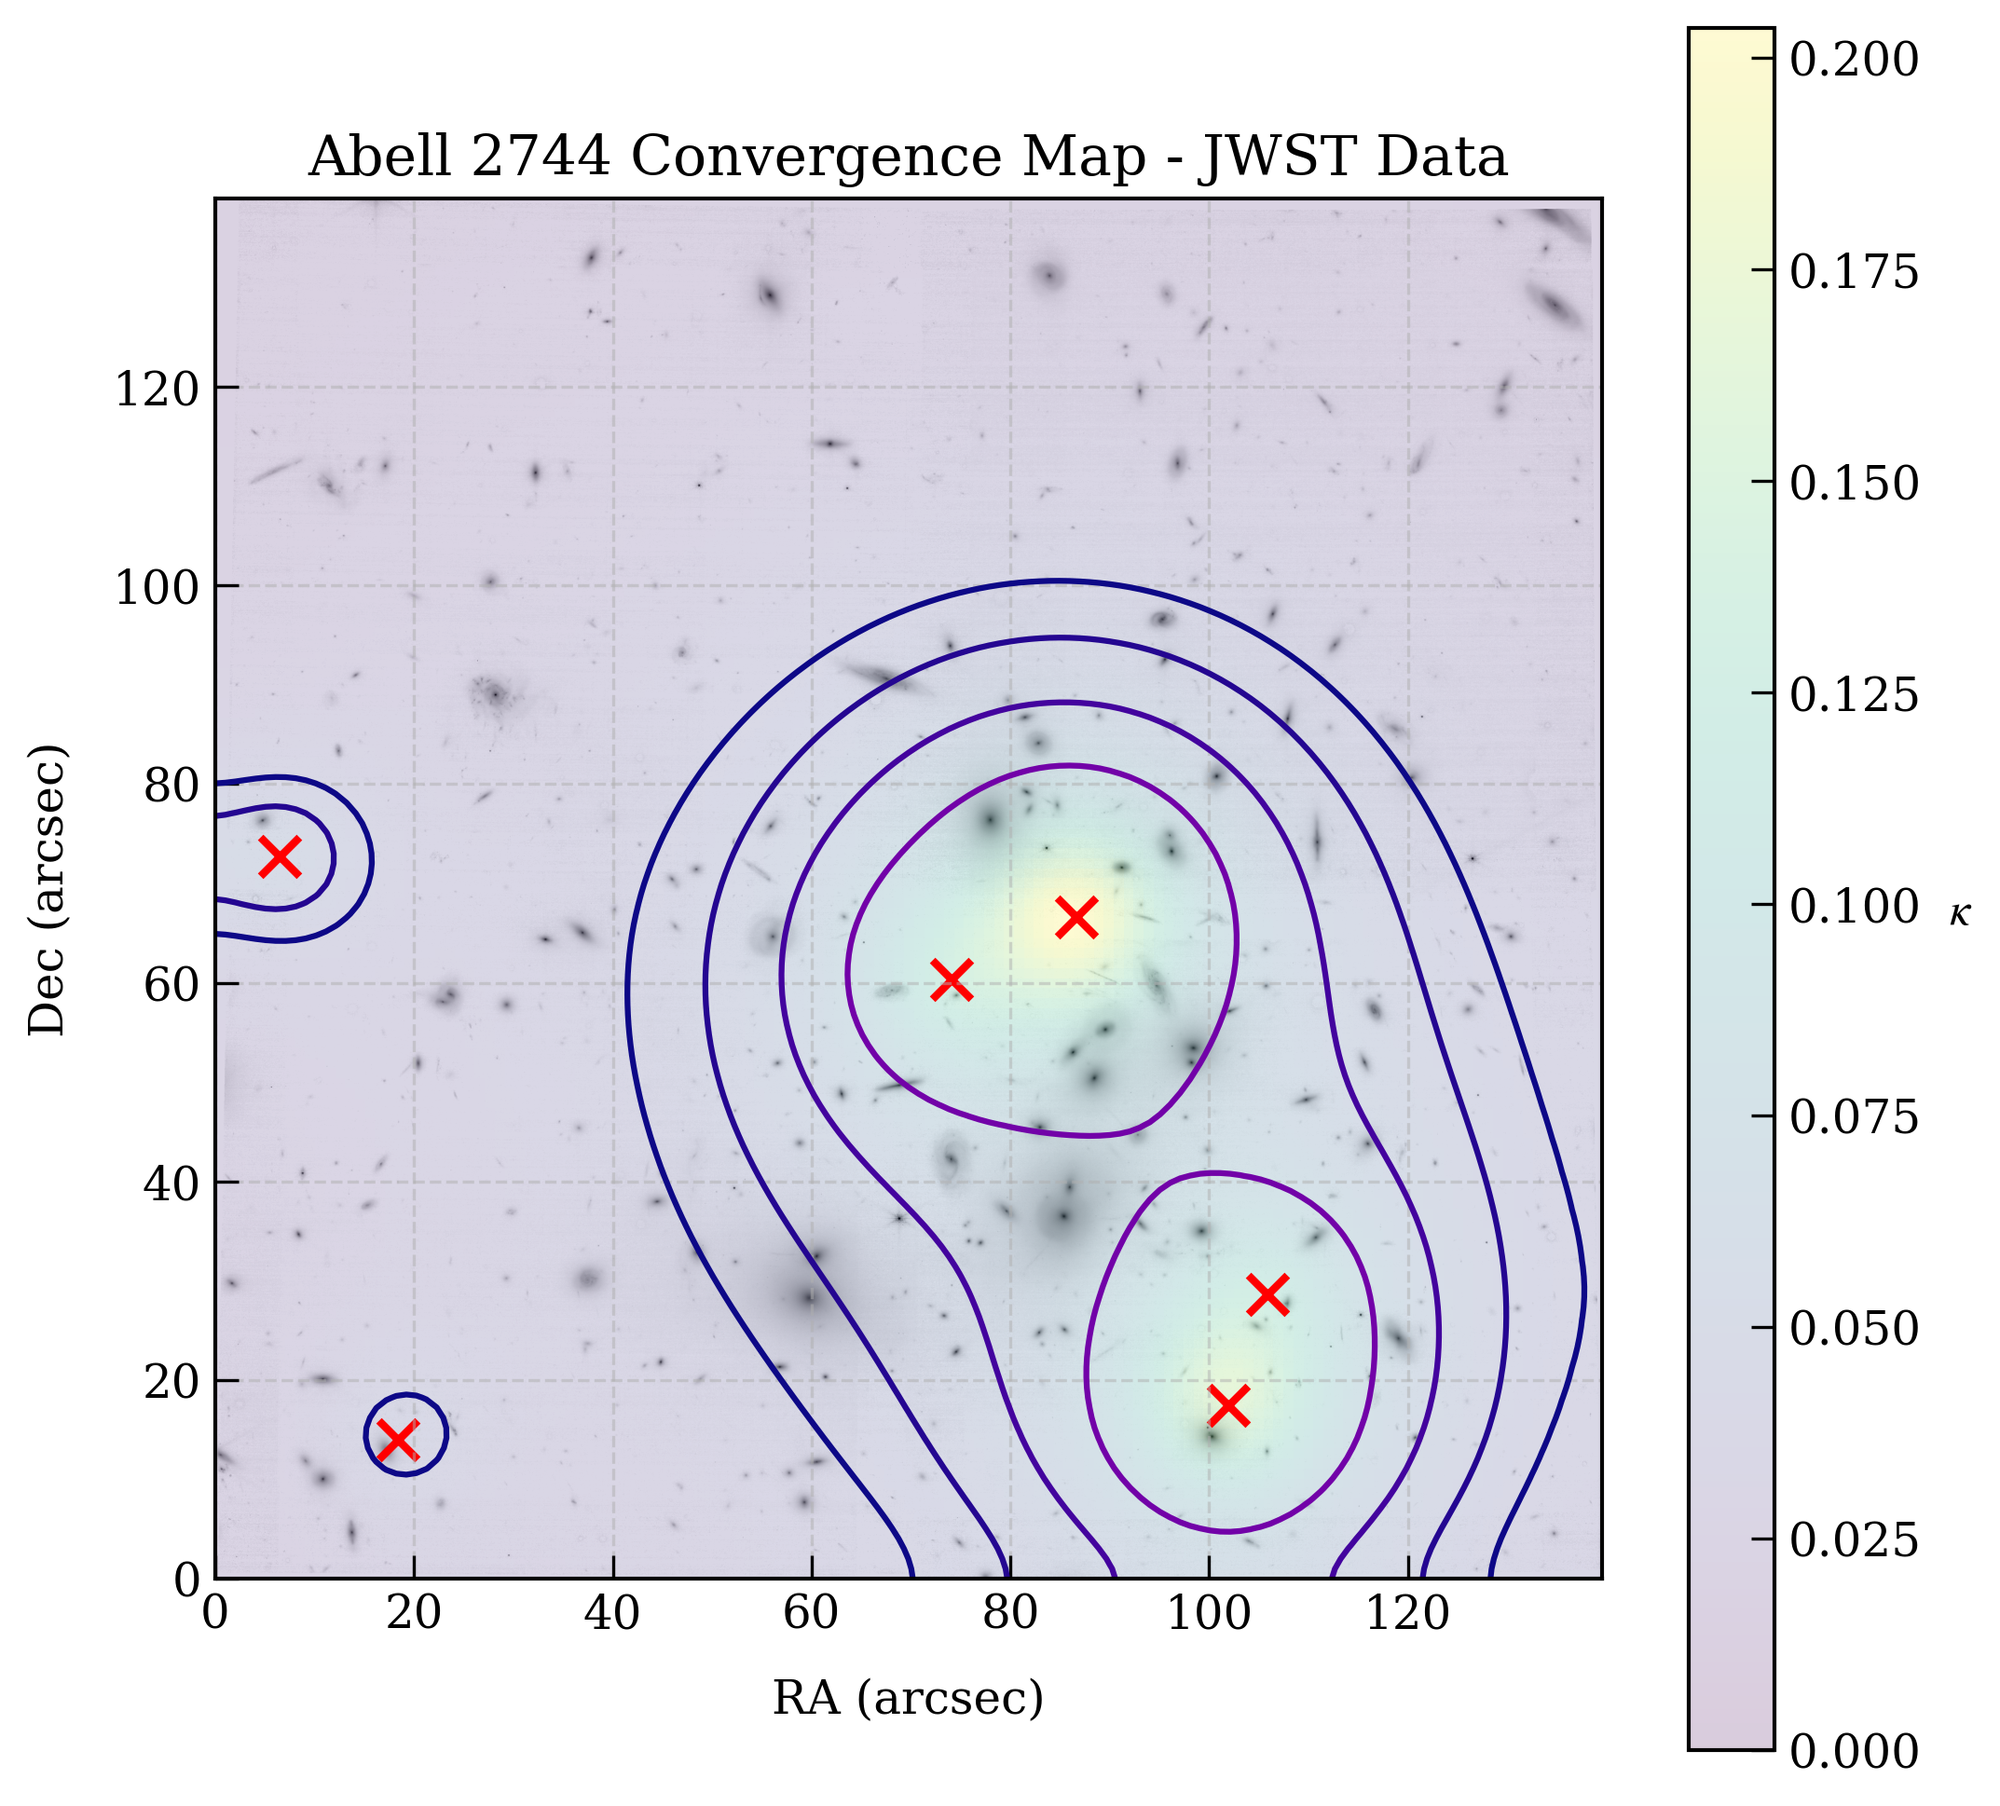
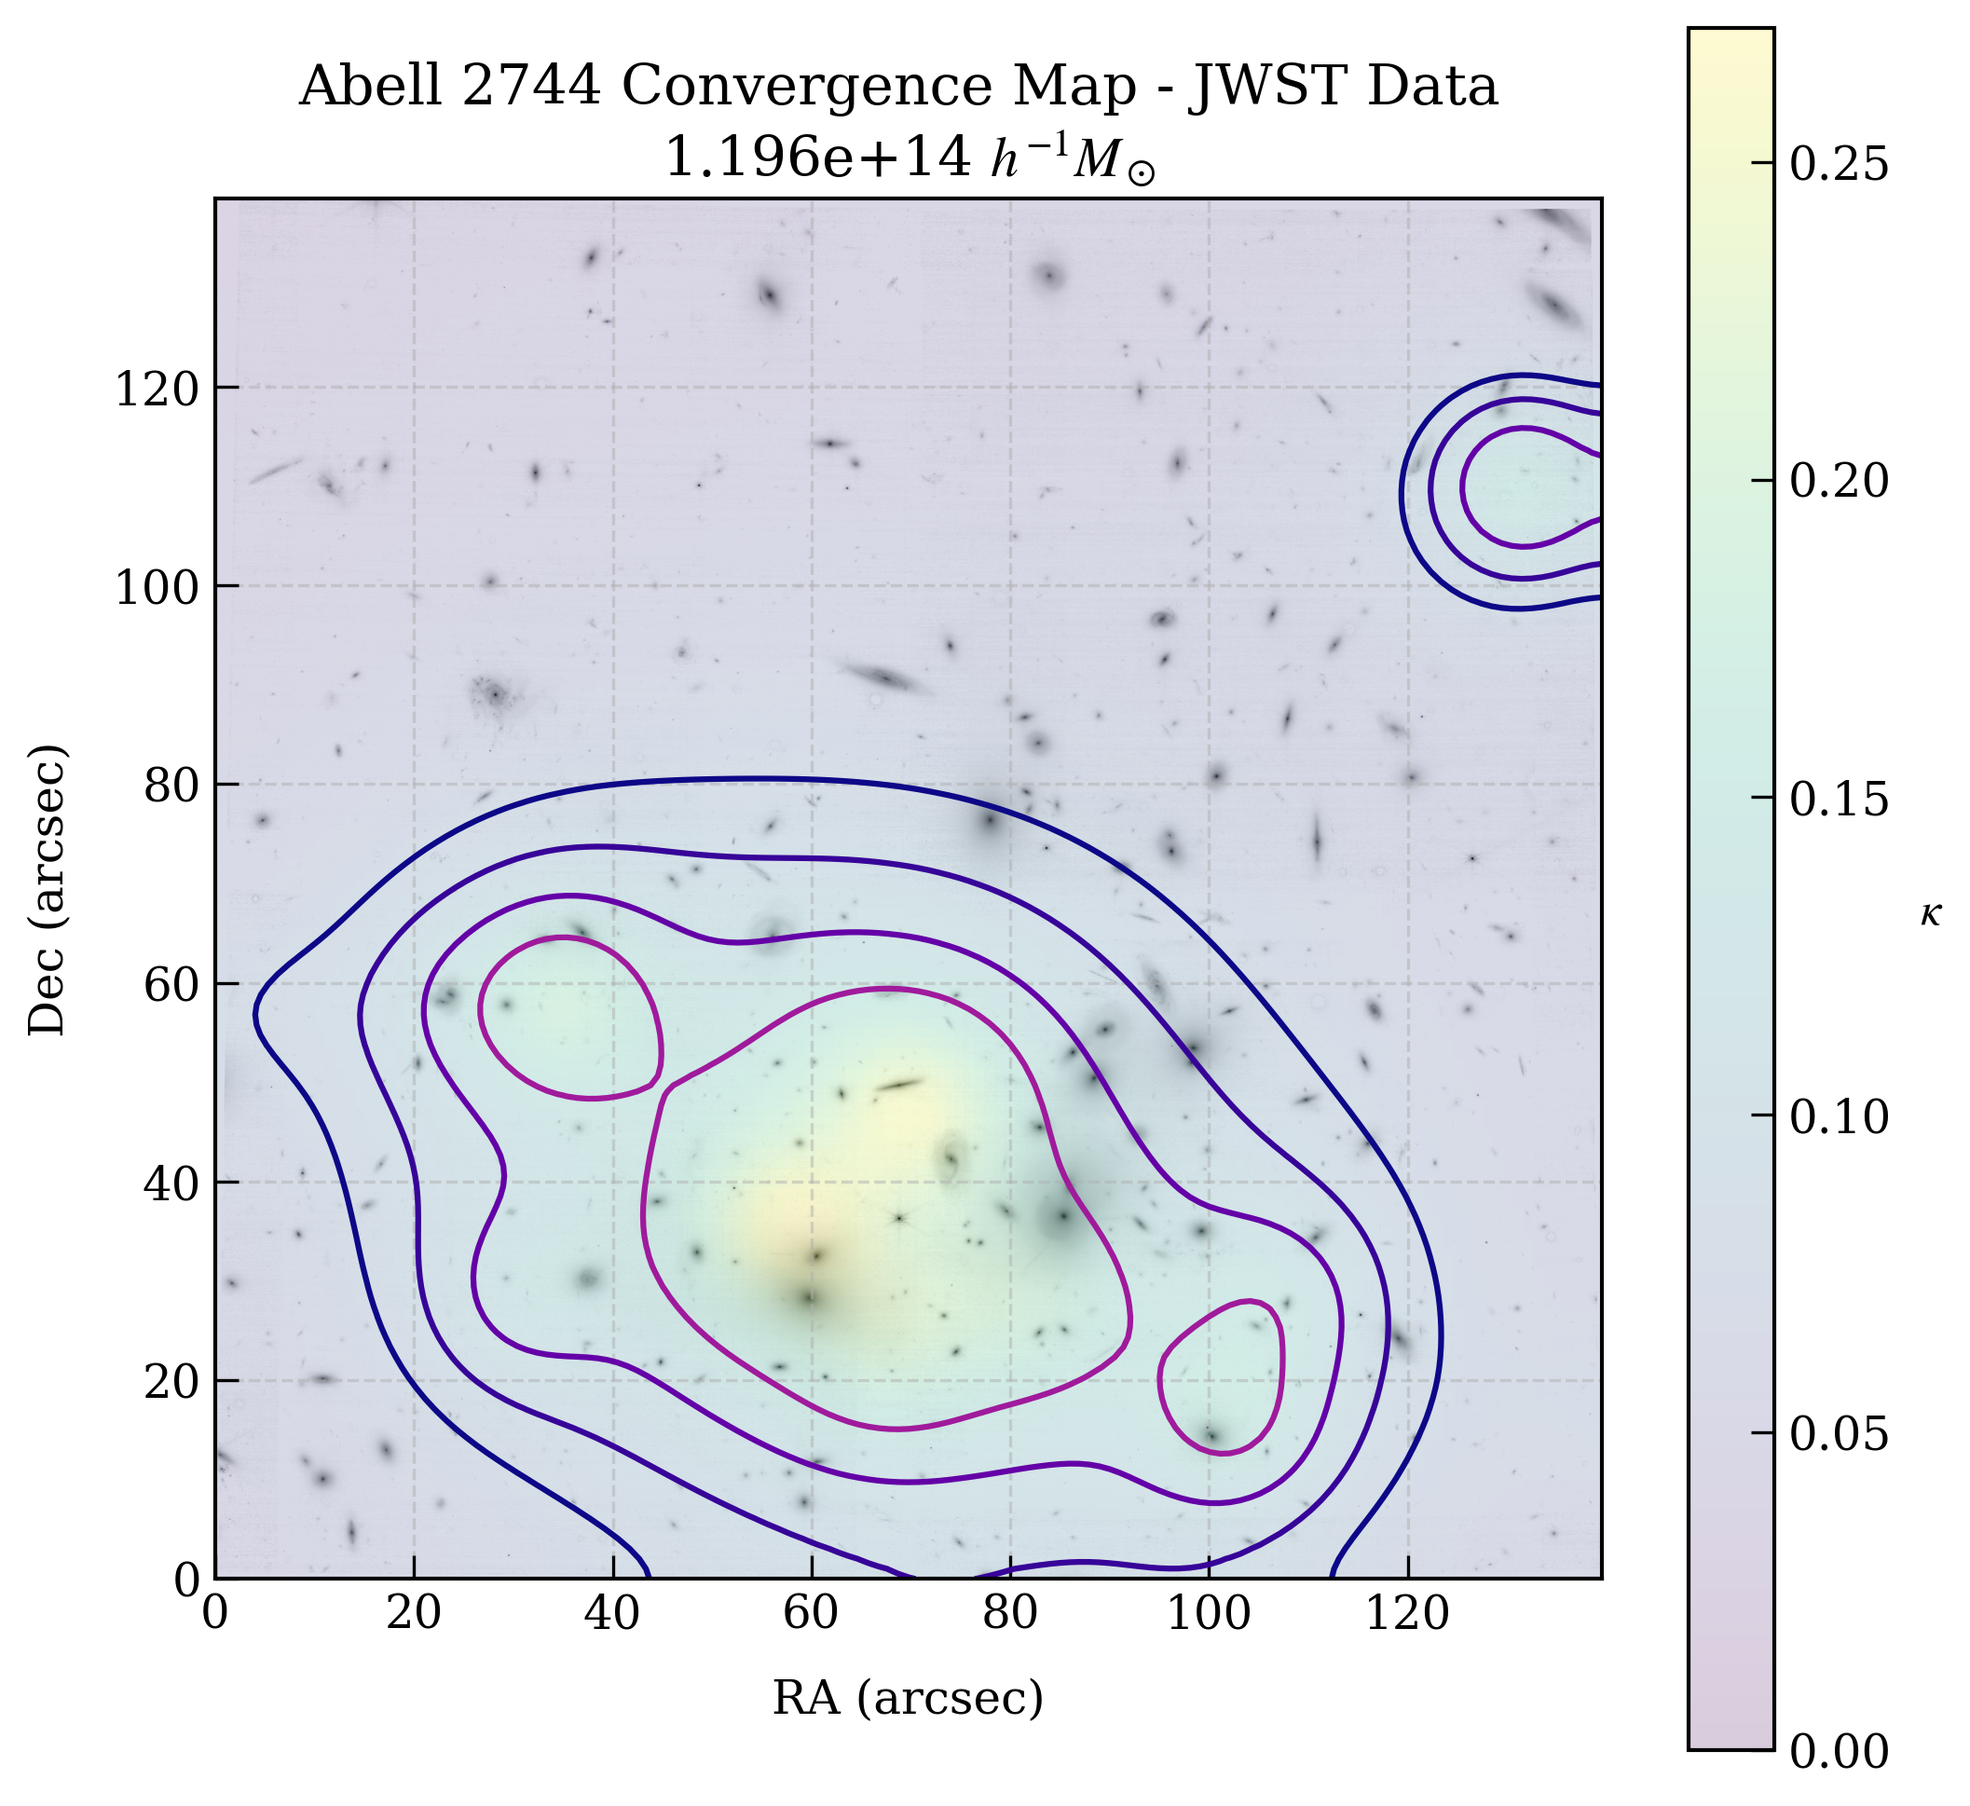
Cleaning up code

diff --git a/quick_jwst_reader.py b/quick_jwst_reader.py
@@ -105,13 +105,16 @@ def reconstructor():
     lenser_path = 'Data/JWST/Cluster Field/Catalogs/F115W_flexion.pkl'
     img_path = 'Data\JWST\Cluster Field\Image Data\jw02756-o003_t001_nircam_clear-f115w_i2d.fits'
     cat_path = 'Data\JWST\Cluster Field\Catalogs\stacked_cat.ecsv'
+
+    z_lens = 0.308
+    z_source = 0.5
     
     warnings.filterwarnings("ignore", category=RuntimeWarning) # Beginning of pipeline will generate expected RuntimeWarnings
     # naive_run(lenser_path, cat_path, img_path)
 
     # Load in the data
     lenses = pipeline.Lens(*np.load('Data/JWST/lenses.npy', allow_pickle=True))
-    sources = pipeline.Source(*np.load('Data/JWST/sources.npy', allow_pickle=True))
+    # sources = pipeline.Source(*np.load('Data/JWST/sources.npy', allow_pickle=True))
     img, header = get_img_data(img_path)
     cdelt = header['CDELT2'] * u.deg 
     cdelt = cdelt.to(u.arcsec).value
@@ -149,11 +152,11 @@ def reconstructor():
     color_bar = plt.colorbar(color_map_overlay, ax=ax)
     color_bar.set_label(r'$\kappa$', rotation=0, labelpad=10)
 
-    ax.scatter(lenses.x, lenses.y, marker='x', color='red', s=100, label='Lenses')
-
     ax.set_xlabel('RA (arcsec)')
     ax.set_ylabel('Dec (arcsec)')
-    ax.set_title('Abell 2744 Convergence Map - JWST Data')
+    mass = utils.calculate_mass(kappa, z_lens, z_source, 1)
+
+    ax.set_title('Abell 2744 Convergence Map - JWST Data \n' + f'{mass:.3e}' + r' $h^{-1} M_\odot$')
     plt.savefig('Images/JWST_flexion_lens_map.png', dpi=300)
     plt.show()
 
@@ -180,6 +183,7 @@ if __name__ == '__main__':
     f1_jwst = f1_jwst / cdelt
     f2_jwst = f2_jwst / cdelt
     a_jwst = a_jwst * cdelt
+
 
     ID_jwst, ra_jwst, dec_jwst, q_jwst, phi_jwst, f1_jwst, f2_jwst, a_jwst = filter_data(ID_jwst, ra_jwst, dec_jwst, q_jwst, phi_jwst, f1_jwst, f2_jwst, a_jwst)
 
@@ -277,10 +281,10 @@ if __name__ == '__main__':
     ax.scatter(f2_hst*a_hst, f2_jwst*a_jwst, s=10, label='a*F2: correlation = {}'.format(np.round(np.corrcoef(f2_hst*a_hst, f2_jwst*a_jwst)[0,1], 2)))
     # Create an agreement line
     x = np.linspace(-0.5, 0.5, 100)
+    print(np.corrcoef(x, x)[0,1])
     ax.plot(x, x, color='black', linestyle='--', label='Agreement')
     ax.set_xlabel('HST')
     ax.set_ylabel('JWST')
     ax.set_title('aF Comparison')
     ax.legend()
     plt.savefig('Images/af.png', dpi=300)
-

diff --git a/pipeline.py b/pipeline.py
@@ -331,7 +331,6 @@ def print_step_info(flags,message,lenses,reducedchi2):
         print('Number of lenses: ', len(lenses.x))
         if reducedchi2 is not None:
             print('Chi^2: ', reducedchi2)
-            print('All chi2 values are nan: ', np.all(np.isnan(lenses.chi2)))
 
 
 def chi2wrapper(guess, params):
@@ -383,9 +382,6 @@ def fit_lensing_field(sources, xmax, flags = False, use_shear=True, use_flexion=
     reducedchi2 = lenses.update_chi2_values(sources, use_shear, use_flexion)
     print_step_info(flags, "Initial Guesses:", lenses, reducedchi2)
 
-    # Remove any candidates with an undefined te
-    valid_indices = np.isfinite(lenses.te)
-    lenses.x, lenses.y, lenses.te, lenses.chi2 = lenses.x[valid_indices], lenses.y[valid_indices], lenses.te[valid_indices], lenses.chi2[valid_indices]
 
     # Optimize lens positions via local minimization
     lenses.optimize_lens_positions(sources, use_shear, use_flexion)
@@ -406,7 +402,7 @@ def fit_lensing_field(sources, xmax, flags = False, use_shear=True, use_flexion=
     # If the merger threshold is too small, set it to 1
     if merger_threshold < 1:
         merger_threshold = 1
-    lenses.merge_close_lenses(merger_threshold=10)
+    lenses.merge_close_lenses(merger_threshold=merger_threshold)
     reducedchi2 = lenses.update_chi2_values(sources, use_shear, use_flexion)
     print_step_info(flags, "After Merging:", lenses, reducedchi2)
 

diff --git a/data_handler.py b/data_handler.py
@@ -167,22 +167,6 @@ def reconstruct_a2744(field='cluster', randomize=False, full_reconstruction=Fals
 
 
     fits_file_path, csv_file_path, vmax, dx, dy = get_file_paths(field=field)
-    '''
-    if field == 'cluster':
-        fits_file_path = 'Data/color_hlsp_frontier_hst_acs-30mas_abell2744_f814w_v1.0-epoch2_f606w_v1.0_f435w_v1.0_drz_sci.fits'
-        csv_file_path = 'Data/a2744_clu_lenser.csv'
-        vmax = 1 # Set the maximum value for the image normalization
-        dx = 115
-        dy = 55
-    elif field == 'parallel':
-        fits_file_path = 'Data/hlsp_frontier_hst_acs-30mas-selfcal_abell2744-hffpar_f435w_v1.0_drz.fits'
-        csv_file_path = 'Data/a2744_par_lenser.csv'
-        vmax = 0.1 # Set the maximum value for the image normalization
-        dx = 865
-        dy = 400
-    else:
-        raise ValueError('field must be "cluster" or "parallel"')
-    '''
 
     img_data, _ = get_img_data(fits_file_path)
     if field == 'cluster':
@@ -352,4 +336,4 @@ def plot_er_dist(merge_radius=1):
 
 
 if __name__ == '__main__':
-    reconstruct_a2744(field='cluster', randomize=False, full_reconstruction=True, use_shear=True, use_flexion=True)
+    reconstruct_a2744(field='cluster', randomize=False, full_reconstruction=False, use_shear=True, use_flexion=True)

diff --git a/utils.py b/utils.py
@@ -187,7 +187,7 @@ def calculate_mass(kappa_array, z_l, z_s, pixel_scale):
     
     # Find the mass which lies within 1 Mpc of the center of the map
     # Convert 1 Mpc to radians, at the relevant distance
-    one_mpc_rad = (1 * u.Mpc).to(u.meter) / D_l
+    one_mpc_rad = (500 * u.kpc).to(u.meter) / D_l
     # Converge the radius to pixels
     one_mpc_rad /= pixel_scale_rad
     # Find the pixels that lie inside this radius (measured from the center of the map)
